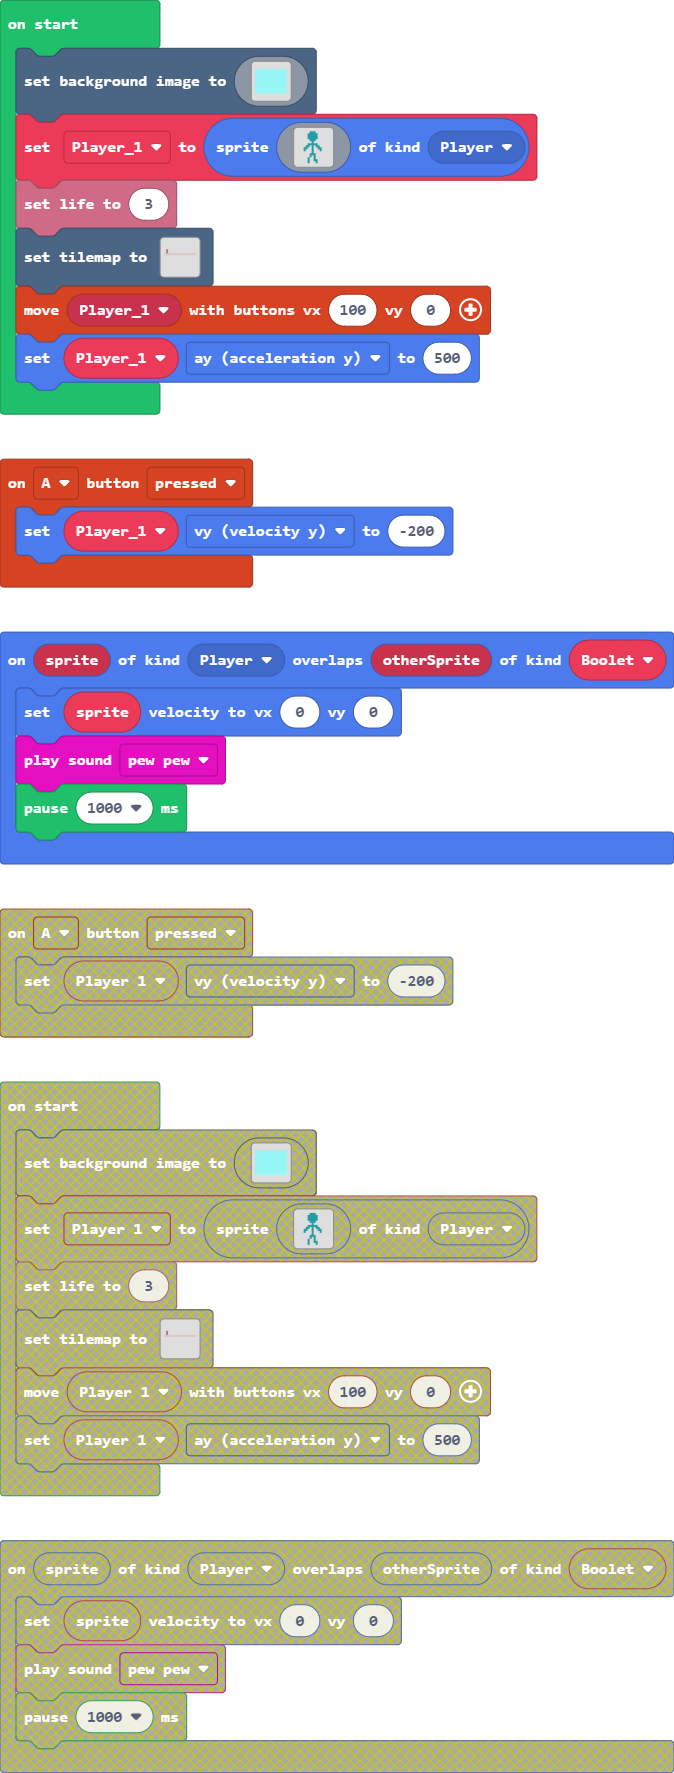
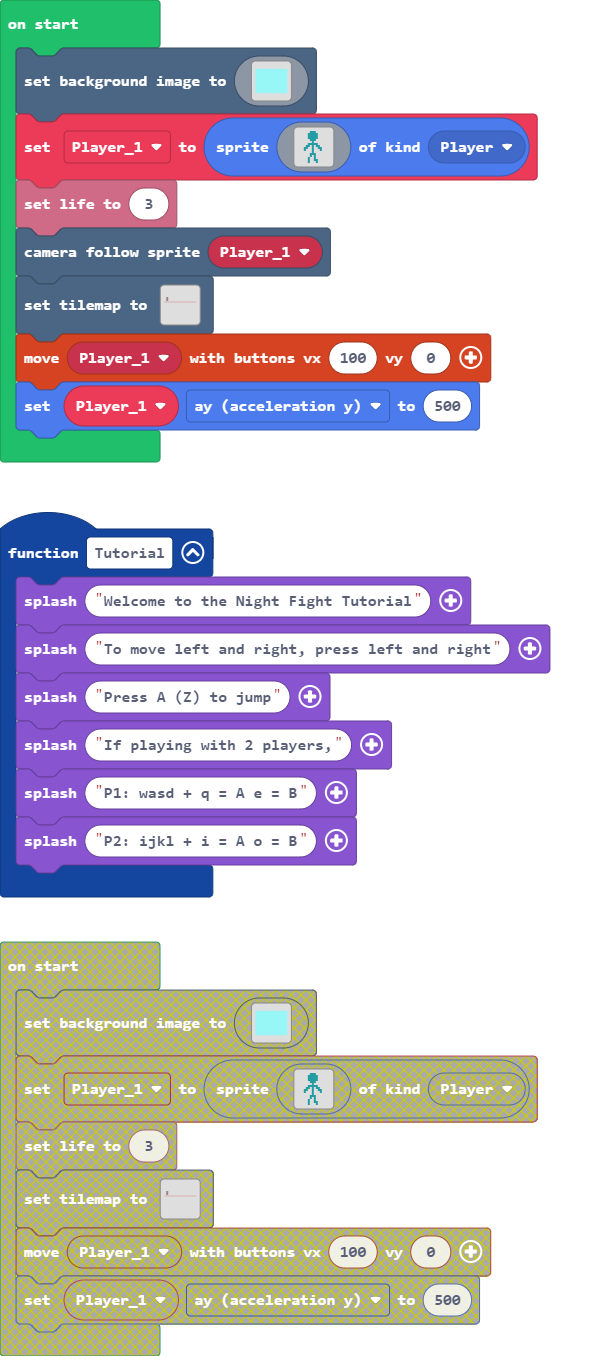
added tutorial thingy

diff --git a/main.ts b/main.ts
@@ -2,6 +2,14 @@ let Boolet = 0
 controller.A.onEvent(ControllerButtonEvent.Pressed, function () {
     Player_1.vy = -200
 })
+function Tutorial () {
+    game.splash("Welcome to the Night Fight Tutorial")
+    game.splash("To move left and right, press left and right")
+    game.splash("Press A (Z) to jump")
+    game.splash("If playing with 2 players,")
+    game.splash("P1: wasd + q = A e = B")
+    game.splash("P2: ijkl + i = A o = B")
+}
 sprites.onOverlap(SpriteKind.Player, Boolet, function (sprite, otherSprite) {
     sprite.setVelocity(0, 0)
     music.pewPew.play()
@@ -149,6 +157,7 @@ Player_1 = sprites.create(img`
     . . . . . 6 . . . 6 . . . . . . 
     `, SpriteKind.Player)
 info.setLife(3)
+scene.cameraFollowSprite(Player_1)
 tiles.setTilemap(tilemap`level1`)
 controller.moveSprite(Player_1, 100, 0)
 Player_1.ay = 500
